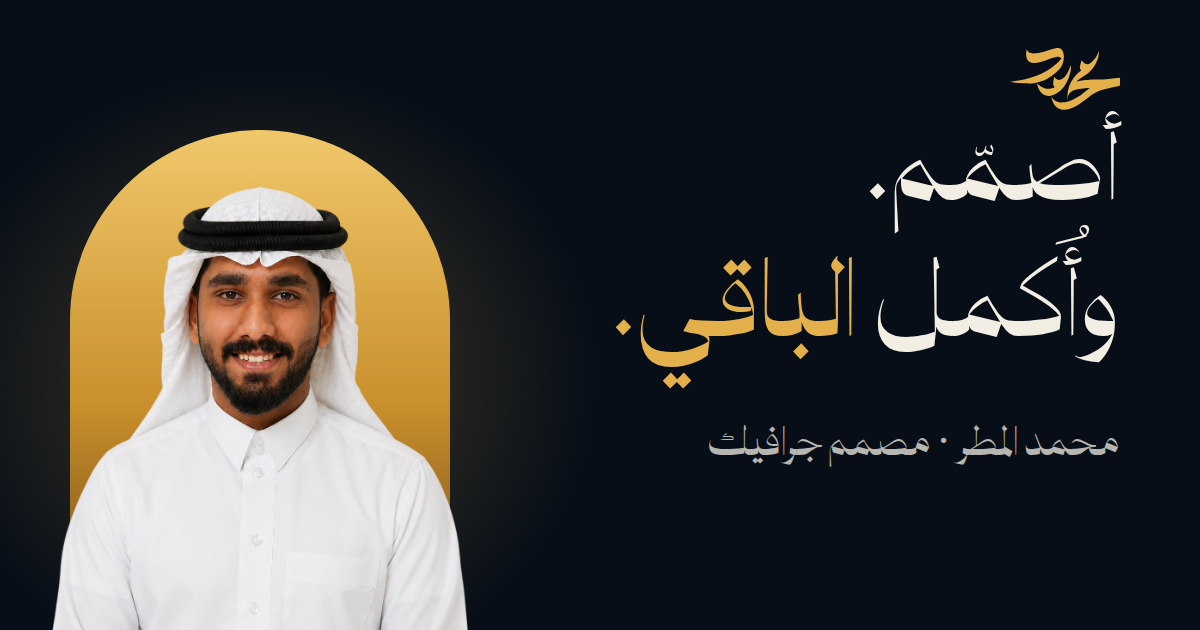
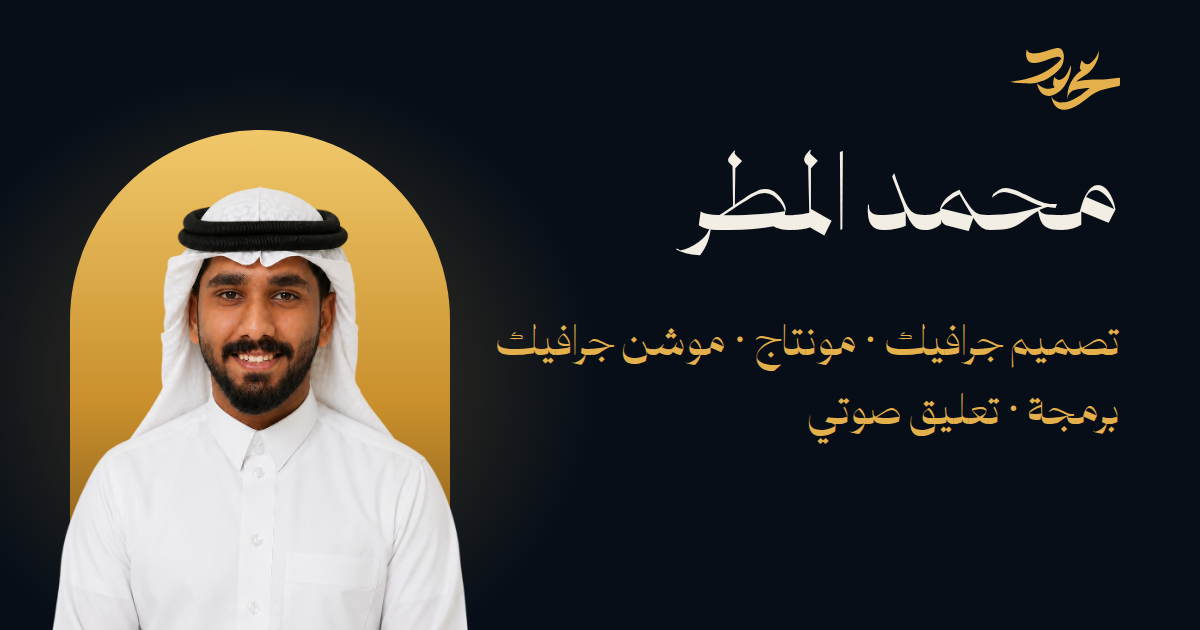
البطل: الاسم ثم المهارات تُكتب بأسلوب الآلة الكاتبة
- «محمد المطر» عنوانًا، وتحته المهارات الخمس تُكتب وتُمسح تباعًا بمؤشر يرمش
- حذف «أصمّم. وأُكمل الباقي.» وتكرار الاسم من السطر التعريفي
- تحديث صورة المشاركة ووصف الموقع

Claude-Session: https://claude.ai/code/session_01Jxj1A26Gpp6MBytDxXtnwf

diff --git a/src/components/site/hero.tsx b/src/components/site/hero.tsx
@@ -1,12 +1,14 @@
 import Image from "next/image";
 import Link from "next/link";
 import { Voice } from "@/components/site/voice";
+import { Typewriter } from "@/components/site/typewriter";
 import { HERO, TRUST } from "@/content/site";
 import { DISCIPLINES, skillHref } from "@/lib/disciplines";
 import { worksLabel } from "@/lib/format";
 import type { Discipline } from "@/lib/database.types";
 
 const ar = new Intl.NumberFormat("ar-SA");
+const SKILL_WORDS = DISCIPLINES.map((d) => d.title);
 
 /** القسم ١: أنا ومهاراتي. */
 export function Hero({
@@ -18,7 +20,6 @@ export function Hero({
   total: number;
   voiceSrc: string | null;
 }) {
-  const last = HERO.lines.length - 1;
   return (
     <section className="relative isolate overflow-hidden pt-[112px] lg:pt-[120px]">
       {/* الإضاءة */}
@@ -36,29 +37,17 @@ export function Hero({
           {/* النص */}
           <div>
 
-            <h1 className="font-display text-[clamp(84px,9.2vw,156px)] leading-[1.08]">
-              <span className="sr-only">{HERO.name}: </span>
-              {HERO.lines.map((l, i) => (
-                <span key={l} className="line-mask">
-                  <span style={{ animationDelay: `${i * 0.12}s` }} className={i === last ? "relative text-sun" : ""}>
-                    {l}
-                    {i === last && (
-                      <svg
-                        aria-hidden
-                        viewBox="0 0 300 30"
-                        preserveAspectRatio="none"
-                        className="absolute -bottom-[.06em] -right-[2%] h-[.3em] w-[104%] overflow-visible"
-                      >
-                        <path d="M4 22 C 80 6, 200 4, 296 16" className="draw-line" fill="none" stroke="currentColor" strokeWidth="6" strokeLinecap="round" />
-                      </svg>
-                    )}
-                  </span>
-                </span>
-              ))}
+            <h1 className="font-display leading-[1.12]">
+              <span className="line-mask text-[clamp(64px,9.2vw,156px)]">
+                <span>{HERO.name}</span>
+              </span>
+              <span className="fade-up mt-1 block min-h-[1.2em] text-[clamp(40px,5.6vw,96px)] text-sun" style={{ animationDelay: ".35s" }}>
+                <Typewriter words={SKILL_WORDS} />
+              </span>
             </h1>
 
             <p className="fade-up mt-7 max-w-[580px] text-[clamp(18px,1.5vw,22px)] leading-[1.85] text-bone/62" style={{ animationDelay: ".55s" }}>
-              <b className="font-semibold text-bone">{HERO.name}</b>، {HERO.lead}
+              {HERO.lead}
             </p>
 
             <div className="fade-up mt-9 flex flex-wrap items-center gap-3.5" style={{ animationDelay: ".7s" }}>

diff --git a/src/components/site/typewriter.tsx b/src/components/site/typewriter.tsx
@@ -1,0 +1,50 @@
+"use client";
+
+import { useEffect, useState } from "react";
+
+/** يكتب الكلمات حرفًا حرفًا ثم يمسحها وينتقل للتالية (وفي «تقليل الحركة» يبدّلها كاملة). */
+export function Typewriter({ words, className = "" }: { words: string[]; className?: string }) {
+  const [text, setText] = useState("");
+
+  useEffect(() => {
+    const reduce = window.matchMedia("(prefers-reduced-motion: reduce)").matches;
+    let i = 0;
+    let n = 0;
+    let deleting = false;
+    let timer: ReturnType<typeof setTimeout>;
+
+    const tick = () => {
+      const chars = Array.from(words[i]);
+      if (reduce) {
+        setText(words[i]);
+        i = (i + 1) % words.length;
+        timer = setTimeout(tick, 2200);
+        return;
+      }
+      let delay = deleting ? 45 : 95;
+      if (!deleting && n < chars.length) n += 1;
+      else if (!deleting) {
+        deleting = true;
+        delay = 1700;
+      } else if (n > 0) n -= 1;
+      else {
+        deleting = false;
+        i = (i + 1) % words.length;
+        delay = 350;
+      }
+      setText(Array.from(words[i]).slice(0, n).join(""));
+      timer = setTimeout(tick, delay);
+    };
+
+    timer = setTimeout(tick, 600);
+    return () => clearTimeout(timer);
+  }, [words]);
+
+  return (
+    <span className={className}>
+      <span aria-hidden>{text}</span>
+      <span aria-hidden className="caret ms-1 inline-block w-[.06em] translate-y-[.08em] bg-current align-baseline" style={{ height: ".9em" }} />
+      <span className="sr-only">{words.join("، ")}</span>
+    </span>
+  );
+}

diff --git a/src/app/layout.tsx b/src/app/layout.tsx
@@ -35,7 +35,7 @@ export const metadata: Metadata = {
     template: "%s · محمد المطر",
   },
   description:
-    "محمد المطر، مصمم جرافيك من الأحساء. أصمّم، وأُكمل الباقي: فيديو، وحركة، وموقع، وصوت.",
+    "محمد المطر من الأحساء: تصميم جرافيك، ومونتاج، وموشن جرافيك، وبرمجة، وتعليق صوتي.",
   keywords: [
     "محمد المطر",
     "معرض أعمال",
@@ -53,7 +53,7 @@ export const metadata: Metadata = {
     images: [{ url: "/og.png", width: 1200, height: 630, alt: "محمد المطر — مصمم جرافيك" }],
     title: "محمد المطر — مصمم جرافيك",
     description:
-      "أصمّم، وأُكمل الباقي: فيديو، وحركة، وموقع، وصوت.",
+      "تصميم جرافيك، ومونتاج، وموشن جرافيك، وبرمجة، وتعليق صوتي.",
   },
 };
 

diff --git a/src/content/site.ts b/src/content/site.ts
@@ -3,9 +3,8 @@ import type { Discipline } from "@/lib/database.types";
 
 export const HERO = {
   name: "محمد المطر",
-  /** العنوان سطرًا سطرًا؛ الأخير بالذهبي */
-  lines: ["أصمّم.", "وأُكمل", "الباقي."],
-  lead: "مصمم جرافيك. أحوّل الفكرة إلى هوية، وفيديو، وحركة، وموقع، وصوت. بيدٍ واحدة.",
+  /** تحت الاسم تُكتب المهارات الخمس تباعًا (من DISCIPLINES) */
+  lead: "أحوّل الفكرة إلى هوية، وفيديو، وحركة، وموقع، وصوت. بيدٍ واحدة.",
   badge: "مصمم · مخرج · محرّك · مطوّر · صوت · ",
 };
 

diff --git a/src/app/globals.css b/src/app/globals.css
@@ -171,3 +171,5 @@
 .spin-slow { animation: spin 18s linear infinite; }
 .pulse-dot { box-shadow: 0 0 0 0 rgba(43, 182, 115, 0.6); animation: pulse-dot 2s infinite; }
 .marquee { animation: marquee 34s linear infinite; }
+.caret { animation: blink 1s steps(1) infinite; }
+@keyframes blink { 50% { opacity: 0; } }
